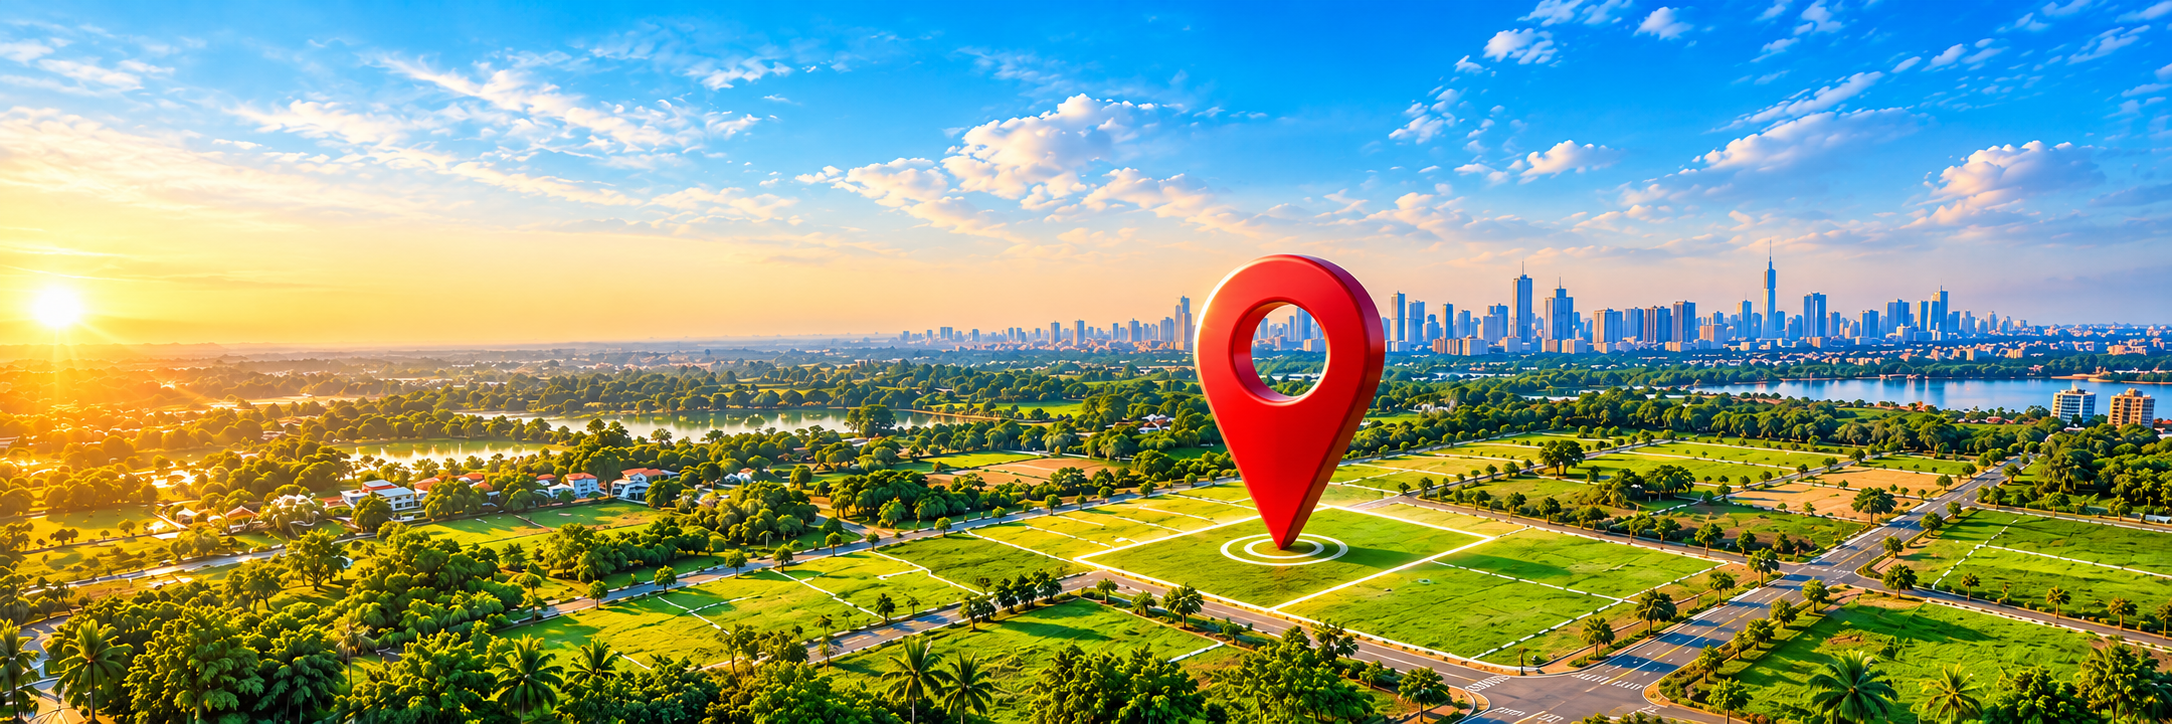
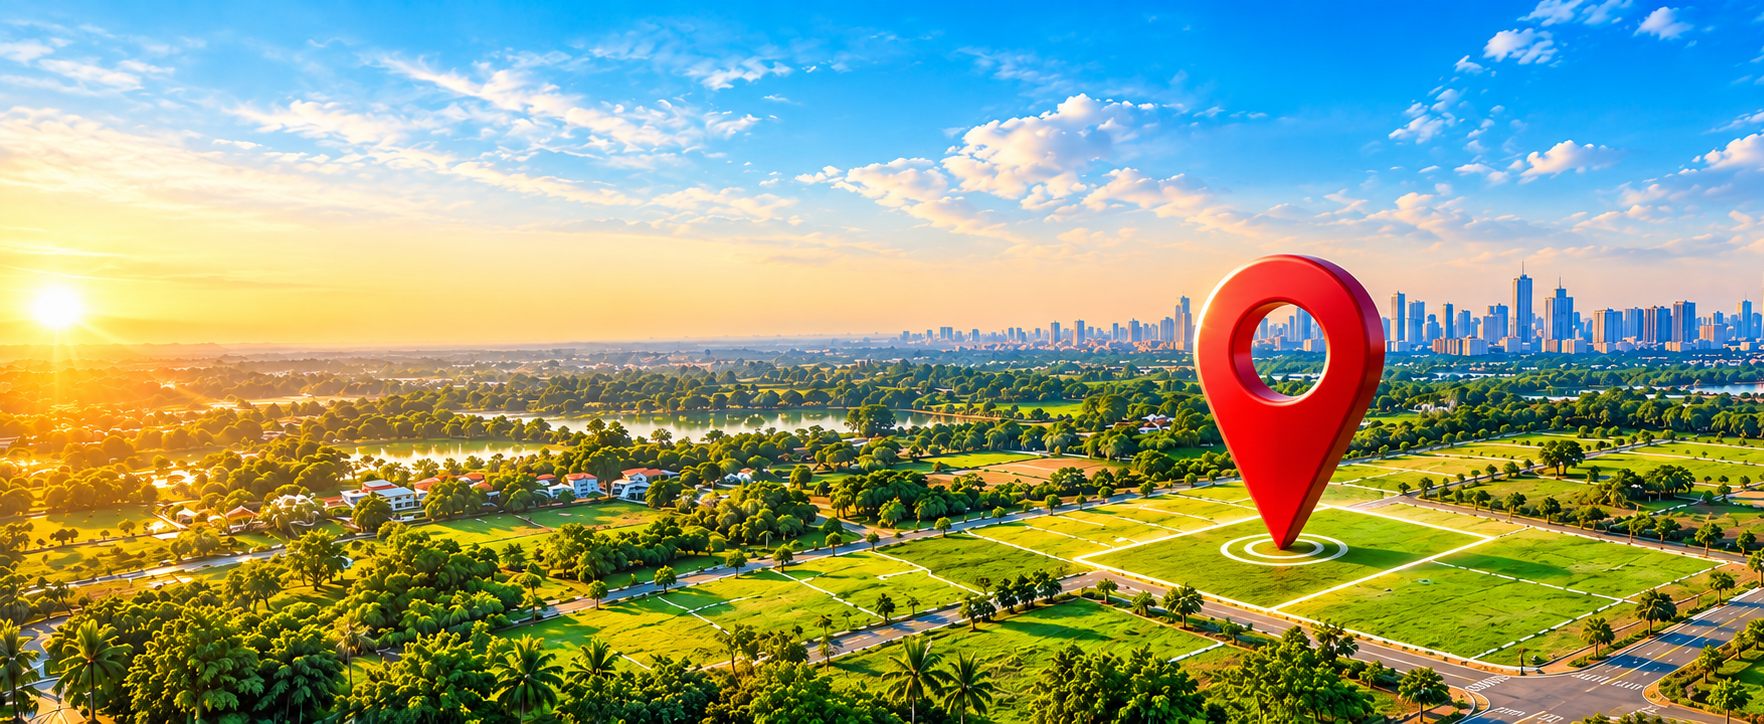
fixed 41

diff --git a/src/components/Hero.tsx b/src/components/Hero.tsx
@@ -21,14 +21,13 @@ const Hero = () => {
 
   return (
     <section className="relative bg-background py-16 md:py-24 overflow-hidden">
-      {/* Background Image with Overlay */}
+      {/* Background Image */}
       <div className="absolute inset-0">
         <img
           src={heroBg}
           alt="Hero Background"
           className="w-full h-full object-cover object-center"
         />
-        <div className="absolute inset-0 bg-gradient-to-b from-background/90 via-background/80 to-background/95" />
       </div>
 
       {/* Content */}
